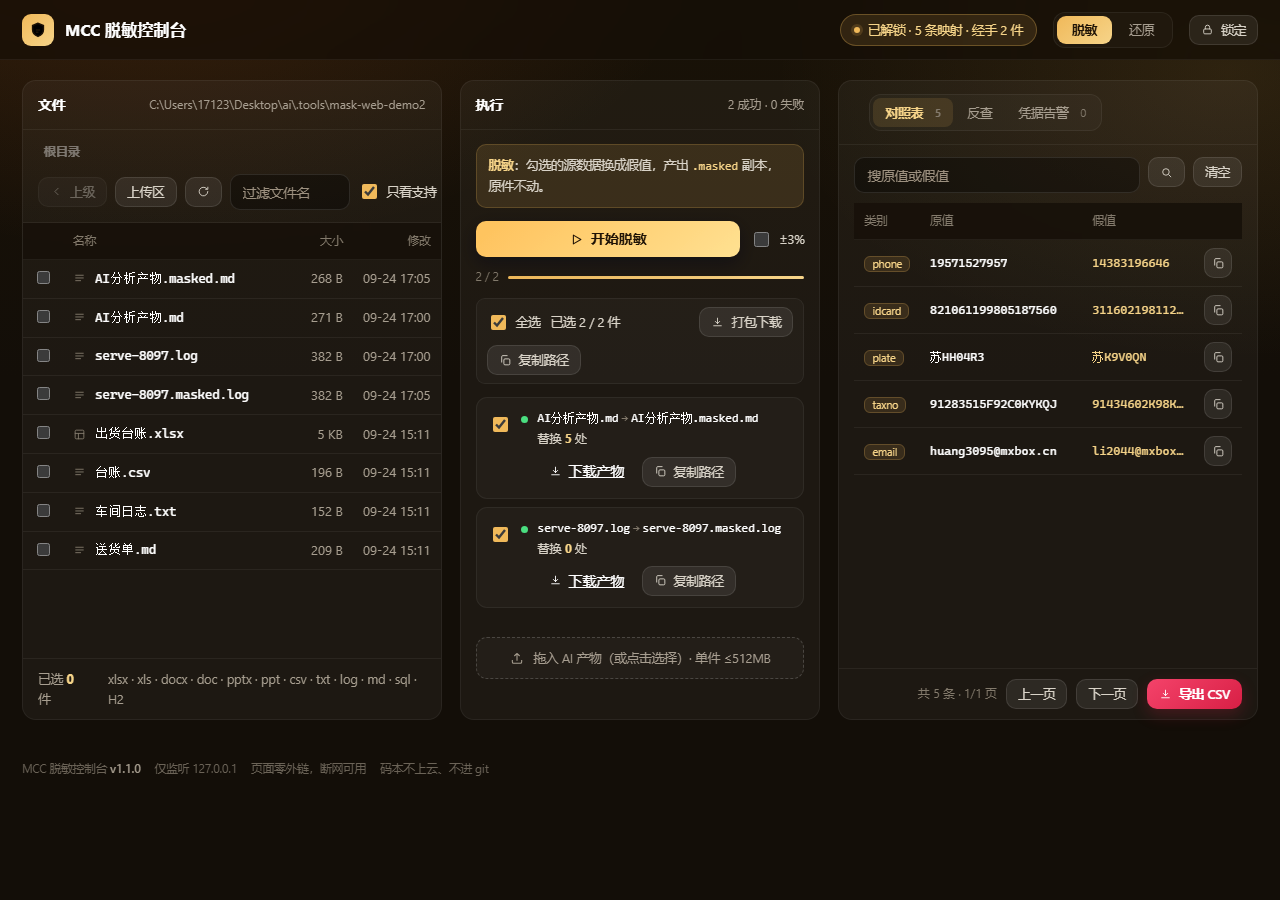
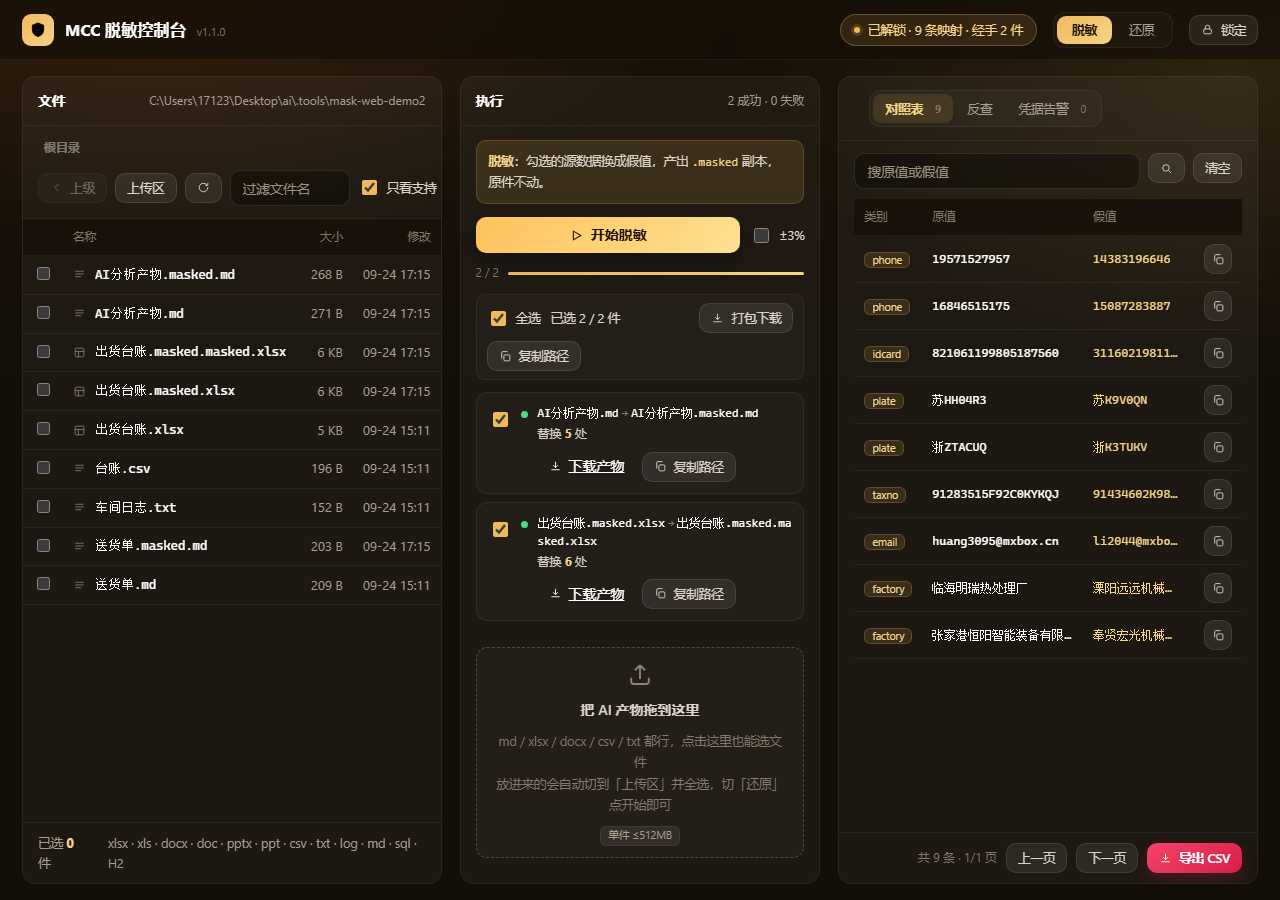
ui: 整屏应用壳（三栏内滚、页面不滚）+ AI 产物投放区放大 + 壳高溢出修复

diff --git a/src/main/resources/web/index.html b/src/main/resources/web/index.html
@@ -20,8 +20,8 @@
   --z-bar:10; --z-drawer:20; --z-modal:30;
 }
 *{box-sizing:border-box}
-html{color-scheme:dark}
-body{margin:0;min-height:100vh;color:var(--t1);background:
+html{height:100%;color-scheme:dark}
+body{margin:0;height:100vh;overflow:hidden;display:flex;flex-direction:column;color:var(--t1);background:
   radial-gradient(900px 520px at 12% -8%, rgba(232,114,42,.16), transparent 62%),
   radial-gradient(760px 480px at 96% 8%, rgba(240,185,90,.1), transparent 60%),
   linear-gradient(180deg,var(--bg-2),var(--bg) 42%);
@@ -34,7 +34,7 @@ svg{display:block}
 .i.s{width:13px;height:13px}.i.l{width:18px;height:18px}
 
 /* ---------- 顶栏（唯一大面积玻璃层） ---------- */
-.bar{position:sticky;top:0;z-index:var(--z-bar);display:flex;align-items:center;gap:16px;height:60px;padding:0 22px;
+.bar{position:relative;z-index:var(--z-bar);flex:none;display:flex;align-items:center;gap:16px;height:60px;padding:0 22px;
   background:rgba(19,14,8,.72);backdrop-filter:blur(16px) saturate(140%);-webkit-backdrop-filter:blur(16px) saturate(140%);
   border-bottom:1px solid var(--line-2)}
 .brand{display:flex;align-items:center;gap:11px;min-width:0}
@@ -42,6 +42,7 @@ svg{display:block}
   background:linear-gradient(140deg,var(--gold),var(--gold-2))}
 .brand .glyph svg{width:18px;height:18px;stroke:var(--gold-ink);stroke-width:2}
 .brand h1{margin:0;font-size:16px;font-weight:650;letter-spacing:.2px;white-space:nowrap}
+.brand h1 small{font-size:11px;font-weight:400;color:var(--t4);margin-left:6px}
 .gap{flex:1}
 .status{display:inline-flex;align-items:center;gap:8px;height:32px;padding:0 13px;border-radius:999px;font-size:12.5px;
   color:var(--t3);background:var(--panel-2);border:1px solid var(--line-2);white-space:nowrap}
@@ -87,11 +88,13 @@ input:focus{border-color:var(--gold);box-shadow:0 0 0 3px rgba(240,185,90,.14)}
 .hide{display:none!important}
 
 /* ---------- 门禁视图 ---------- */
-.gate{display:grid;grid-template-columns:minmax(0,1fr) minmax(0,1fr);gap:56px;align-items:center;
-  max-width:1020px;margin:0 auto;padding:9vh 24px 0}
+.gate{position:absolute;inset:0;z-index:5;display:grid;grid-template-columns:minmax(0,1fr) minmax(0,1fr);
+  gap:56px;align-items:center;align-content:center;padding:24px max(24px,calc((100% - 1020px)/2));
+  overflow:auto;background:linear-gradient(180deg,rgba(19,14,8,.94),rgba(13,9,5,.98))}
 .gate h2{margin:0 0 6px;font-size:26px;font-weight:650;letter-spacing:-.01em;text-wrap:balance}
 .gate p.lede{margin:0 0 26px;color:var(--t3);font-size:13.5px;max-width:34ch}
 .gate .field{margin-bottom:11px}
+.gate h2{font-size:26px}
 .gate .err{color:var(--red);font-size:12.5px;min-height:20px;margin-top:10px}
 .gate .fine{margin-top:20px;padding-top:16px;border-top:1px solid var(--line-2);color:var(--t4);font-size:12px;line-height:1.8}
 .gate .fine b{color:var(--t2);font-weight:500}
@@ -104,10 +107,10 @@ input:focus{border-color:var(--gold);box-shadow:0 0 0 3px rgba(240,185,90,.14)}
 
 /* ---------- 工作台 ---------- */
 .shell{display:grid;grid-template-columns:minmax(0,1fr) minmax(360px,.86fr) minmax(0,1fr);gap:18px;
-  max-width:1500px;margin:0 auto;padding:20px 22px 40px;align-items:stretch}
+  width:100%;max-width:1500px;margin:0 auto;padding:16px 22px;flex:1;min-height:0;align-items:stretch}
 .shell.locked{opacity:.36;filter:saturate(.4);pointer-events:none}
 .pane{background:var(--panel);border:1px solid var(--line-2);border-radius:var(--r);min-width:0;
-  display:flex;flex-direction:column;min-height:min(72vh,640px)}
+  display:flex;flex-direction:column;min-height:0;overflow:hidden}
 .pane > header{display:flex;align-items:center;gap:10px;padding:13px 15px;border-bottom:1px solid var(--line-2)}
 .pane > header h2{margin:0;font-size:13.5px;font-weight:650;letter-spacing:.2px}
 .pane > header .meta{font-size:12px;color:var(--t3);margin-left:auto;min-width:0;overflow:hidden;text-overflow:ellipsis;white-space:nowrap}
@@ -122,7 +125,7 @@ input:focus{border-color:var(--gold);box-shadow:0 0 0 3px rgba(240,185,90,.14)}
 .path .sl{opacity:.35;padding:0 1px}
 .tools{display:flex;align-items:center;gap:8px;padding:11px 15px 12px;border-bottom:1px solid var(--line-2)}
 .tools .grow{flex:1;min-width:120px}
-.tablewrap{flex:1;min-height:260px;overflow:auto;overscroll-behavior:contain}
+.tablewrap{flex:1;min-height:0;overflow:auto;overscroll-behavior:contain}
 table.grid{width:100%;border-collapse:separate;border-spacing:0}
 table.grid th{position:sticky;top:0;z-index:1;text-align:left;font-size:11.5px;font-weight:500;color:var(--t4);
   padding:9px 10px;background:rgba(23,17,10,.94);backdrop-filter:blur(6px);border-bottom:1px solid var(--line-2)}
@@ -160,7 +163,7 @@ tr.dir:hover .txt{text-decoration:underline;text-underline-offset:3px}
 .track{flex:1;height:3px;border-radius:99px;background:rgba(255,255,255,.08);overflow:hidden}
 .track i{display:block;height:100%;width:0;background:linear-gradient(90deg,var(--gold),var(--gold-2));
   transition:width .3s var(--ease)}
-.results{margin-top:13px;display:grid;gap:8px;flex:1;min-height:210px;overflow:auto;overscroll-behavior:contain;align-content:start}
+.results{margin-top:12px;display:grid;gap:8px;flex:1.4;min-height:120px;overflow:auto;overscroll-behavior:contain;align-content:start}
 .res{display:grid;grid-template-columns:auto auto minmax(0,1fr);gap:10px;padding:11px 12px;border-radius:11px;
   background:var(--panel-2);border:1px solid var(--line-2)}
 .res.pickable{cursor:pointer}
@@ -185,12 +188,14 @@ tr.dir:hover .txt{text-decoration:underline;text-underline-offset:3px}
 .res .why{font-size:12px;color:#ff9fb0;margin-top:3px;line-height:1.6}
 .res .note{font-size:11.5px;color:var(--warn);margin-top:4px;line-height:1.6}
 .res .ops{display:flex;gap:6px;margin-top:8px}
-.drop{margin-top:13px;padding:10px 12px;border-radius:11px;text-align:center;color:var(--t3);font-size:12.5px;
-  display:flex;align-items:center;justify-content:center;gap:8px;
-  border:1px dashed rgba(255,255,255,.18);background:var(--panel-2);cursor:pointer;transition:.18s var(--ease)}
-.drop:hover{border-color:rgba(240,185,90,.4);color:var(--t2)}
+.drop{margin-top:12px;flex:1;min-height:150px;border-radius:11px;text-align:center;color:var(--t3);font-size:12.5px;
+  display:flex;flex-direction:column;align-items:center;justify-content:center;gap:10px;padding:18px;
+  border:1.5px dashed rgba(255,255,255,.2);background:var(--panel-2);cursor:pointer;transition:.18s var(--ease)}
+.drop strong{color:var(--t2);font-size:14px;font-weight:600}
+.drop .hintline{color:var(--t4);line-height:1.7}
+.drop:hover{border-color:rgba(240,185,90,.45);color:var(--t2);background:rgba(240,185,90,.05)}
 .drop.hot{border-color:var(--gold);border-style:solid;color:var(--gold-2);background:var(--gold-soft)}
-.drop svg{width:16px;height:16px;stroke:currentColor;flex:none}
+.drop svg{width:30px;height:30px;stroke:currentColor;flex:none;opacity:.8}
 .how{list-style:none;margin:auto 0 0;padding:14px 0 0;display:grid;gap:9px;font-size:12.5px;color:var(--t3)}
 .how li{display:flex;gap:9px;align-items:flex-start}
 .how .k{color:var(--gold-2);font-family:ui-monospace,Consolas,monospace;font-size:11.5px;padding-top:1px}
@@ -202,9 +207,11 @@ tr.dir:hover .txt{text-decoration:underline;text-underline-offset:3px}
 .tabs .c{font-size:11px;color:var(--t4);margin-left:5px}
 .pane-audit .body{padding:0;display:flex;flex-direction:column;flex:1}
 .pane-audit #view-pairs{display:flex;flex-direction:column;flex:1;min-height:0}
+.scopenote{display:flex;align-items:center;gap:8px;flex-wrap:wrap;padding:9px 15px;font-size:12px;
+  color:var(--warn);background:rgba(255,193,122,.08);border-bottom:1px solid rgba(255,193,122,.2)}
 .pane-audit .search{display:flex;gap:8px;padding:12px 15px 10px}
 .pane-audit .search input{flex:1}
-.auditwrap{flex:1;min-height:200px;overflow:auto;overscroll-behavior:contain;padding:0 15px}
+.auditwrap{flex:1;min-height:0;overflow:auto;overscroll-behavior:contain;padding:0 15px}
 .lookup{padding:14px 15px}
 .lookup .ask{display:flex;gap:8px}
 .lookup .ask input{flex:1}
@@ -217,17 +224,22 @@ tr.dir:hover .txt{text-decoration:underline;text-underline-offset:3px}
 .callout p{margin:0 0 6px}
 .callout ul{margin:0;padding-left:18px}
 .pager{display:flex;align-items:center;gap:9px;justify-content:flex-end;padding:10px 15px;border-top:1px solid var(--line-2);font-size:12px;color:var(--t4)}
-.foot{max-width:1500px;margin:0 auto;padding:0 22px 30px;color:#6b6357;font-size:11.5px;display:flex;gap:14px;flex-wrap:wrap}
-.foot b{color:var(--t3);font-weight:500}
+
 
 @media (prefers-reduced-motion:reduce){*{animation-duration:.001ms!important;transition-duration:.001ms!important}}
 @media (max-width:1239px){
   .shell{grid-template-columns:minmax(0,1fr) minmax(340px,.9fr)}
   .pane-audit{grid-column:1 / -1}
 }
+@media (max-width:1239px){
+  body{height:auto;overflow:auto}
+  .wrap{height:auto}
+  .shell{height:auto;min-height:0;padding-bottom:26px}
+  .pane{min-height:min(64vh,560px)}
+}
 @media (max-width:900px){
-  .gate{grid-template-columns:1fr;gap:30px;padding-top:6vh}
-  .shell{grid-template-columns:1fr;padding:16px 14px 32px}
+  .gate{grid-template-columns:1fr;gap:30px;padding:6vh 20px 30px}
+  .shell{grid-template-columns:1fr}
   .bar{height:auto;padding:10px 14px;flex-wrap:wrap;gap:10px}
 }
 </style>
@@ -237,7 +249,7 @@ tr.dir:hover .txt{text-decoration:underline;text-underline-offset:3px}
 <header class="bar">
   <div class="brand">
     <span class="glyph"><svg viewBox="0 0 24 24"><path d="M12 3 4.8 6v5.8c0 4.1 3 7.4 7.2 8.7 4.2-1.3 7.2-4.6 7.2-8.7V6L12 3Z"/><path d="M9.2 12.1h5.6M9.2 15h3.4"/></svg></span>
-    <h1>MCC 脱敏控制台</h1>
+    <h1>MCC 脱敏控制台 <small id="ver">v1.1.0</small></h1>
   </div>
   <div class="gap"></div>
   <span id="bookBadge" class="status">未解锁</span>
@@ -308,9 +320,11 @@ tr.dir:hover .txt{text-decoration:underline;text-underline-offset:3px}
         <button class="quiet" id="cpAllBtn"><svg class="i s" viewBox="0 0 24 24"><rect x="9" y="9" width="11" height="11" rx="2"/><path d="M5 15V5a2 2 0 0 1 2-2h8"/></svg>复制路径</button>
       </div>
       <div class="results" id="results"></div>
-      <div class="drop" id="drop" title="也可以直接把文件拖到这里的整个执行栏">
-        <svg viewBox="0 0 24 24" fill="none" stroke="currentColor" stroke-width="1.6"><path d="M12 16V5m0 0L8 9m4-4 4 4"/><path d="M5 15v3a2 2 0 0 0 2 2h10a2 2 0 0 0 2-2v-3"/></svg>
-        <span>拖入 AI 产物（或点击选择）· 单件 ≤512MB</span>
+      <div class="drop" id="drop" title="把 AI 产物拖到这里，或点一下选文件">
+        <svg viewBox="0 0 24 24" fill="none" stroke="currentColor" stroke-width="1.5"><path d="M12 16V5m0 0L8 9m4-4 4 4"/><path d="M5 15v3a2 2 0 0 0 2 2h10a2 2 0 0 0 2-2v-3"/></svg>
+        <strong>把 AI 产物拖到这里</strong>
+        <span class="hintline">md / xlsx / docx / csv / txt 都行，点击这里也能选文件<br>放进来的会自动切到「上传区」并全选，切「还原」点开始即可</span>
+        <span class="chip">单件 ≤512MB</span>
       </div>
       <input type="file" id="file" class="hide" multiple>
       <div id="upErr" class="err" style="color:var(--red);font-size:12.5px;min-height:18px;margin-top:8px"></div>
@@ -328,6 +342,7 @@ tr.dir:hover .txt{text-decoration:underline;text-underline-offset:3px}
     </header>
     <div class="body">
       <div id="view-pairs">
+        <div class="scopenote hide" id="pScope"></div>
         <div class="search">
           <input id="pq" type="search" placeholder="搜原值或假值" aria-label="搜索对照表">
           <button class="quiet" id="pSearch"><svg class="i s" viewBox="0 0 24 24"><circle cx="11" cy="11" r="6"/><path d="m20 20-3.6-3.6"/></svg></button>
@@ -337,7 +352,7 @@ tr.dir:hover .txt{text-decoration:underline;text-underline-offset:3px}
           <table class="grid"><thead><tr><th style="width:56px">类别</th><th>原值</th><th>假值</th><th style="width:46px"></th></tr></thead>
             <tbody id="pairs"></tbody></table>
         </div>
-        <div class="pager"><span id="pScope"></span><span class="grow" style="flex:1"></span><span id="pInfo"></span>
+        <div class="pager"><span id="pInfo"></span>
           <button class="quiet" id="pPrev">上一页</button><button class="quiet" id="pNext">下一页</button>
           <button class="danger" id="exportBtn"><svg class="i s" viewBox="0 0 24 24"><path d="M12 4v10m0 0 4-4m-4 4-4-4"/><path d="M5 18h14"/></svg>导出 CSV</button>
         </div>
@@ -360,12 +375,6 @@ tr.dir:hover .txt{text-decoration:underline;text-underline-offset:3px}
   </aside>
 </div>
 
-<div class="foot">
-  <span>MCC 脱敏控制台 <b id="ver">v1.1.0</b></span>
-  <span>仅监听 127.0.0.1</span>
-  <span>页面零外链，断网可用</span>
-  <span>码本不上云、不进 git</span>
-</div>
 
 <script>
 const $=s=>document.querySelector(s), $$=s=>[...document.querySelectorAll(s)];
@@ -469,7 +478,9 @@ function selInfo(){
 async function loadPairs(){
   const j=await api(`/api/pairs?q=${encodeURIComponent($('#pq').value)}&page=${page}${scopeAll?'&scope=all':''}`);
   total=j.total;page=j.page;$('#pairN').textContent=j.total;
-  $('#pScope').innerHTML=scopeAll
+  const note=$('#pScope');
+  note.classList.toggle('hide',!(scopeAll||j.hidden>0));
+  note.innerHTML=scopeAll
     ? `<span style="color:var(--t4)">当前显示全部映射（含产物已删的）</span>
        <button class="text" id="scopeBtn" style="margin-left:6px">只看在档</button>`
     : (j.hidden>0

diff --git a/docs/log/变更日志.md b/docs/log/变更日志.md
@@ -2,6 +2,12 @@
 
 > 一行一条，新的在上。
 
+## 2026-09-24（整屏应用壳 + 大投放区）
+- [改版] **改成整屏应用壳**（用户："每个板块可以内滚动啊，做成这样干啥"）：顶栏固定、下面三栏铺满窗口剩余高度、**页面本身不再滚动**，文件清单 / 结果列表 / 对照表各自内滚；门禁改为覆盖层（工作台在后面透出待命）
+- [改版] **AI 产物投放区放大**（用户："不要做那么小一块…要不然都找不到"）：从一行小条改成**一大块**（30px 图标 + 粗标题「把 AI 产物拖到这里」+ 两行说明 + 512MB 徽章），占执行栏下半，常驻可见；拖拽悬停会整块高亮
+- [修复] **壳修出来的真 bug**：`.wrap` 用 `height:100%` 而上面还有 60px 顶栏 → 总高超出视口 60px，浏览器把 body 滚下去、按钮点不着（无头实测截图里整个页面被顶下去 130px）。改为 body flex 列布局 + `wrap{flex:1;min-height:0}`；排版脚本新增「页面是否被滚动」断言（≥1240 宽必须为 false）
+- [修复] 对照表的作用域提示原来挤在分页行里，把分页挤成三行 → 挪成表头下独立一行告示
+
 ## 2026-09-24（三栏显示区统一）
 - [改版] **三栏显示区对齐**（用户："一个显示区域多一个少的"）：根因是三栏内部滚动区各自限高（文件 58vh / 执行 40vh / 核查 54vh），于是这栏撑到底、那栏半截就空 → 三处统一 `flex:1` 吃满各自面板，面板再等高，**三栏底边与内容带一致**；面板最小高提到 72vh/640px
 - [改版] **执行栏瘦身**：上手三步从固定块挪进结果区当"空态"（有结果即让位，不再白占 100px），上传口收成一行（图标+文字同行）
